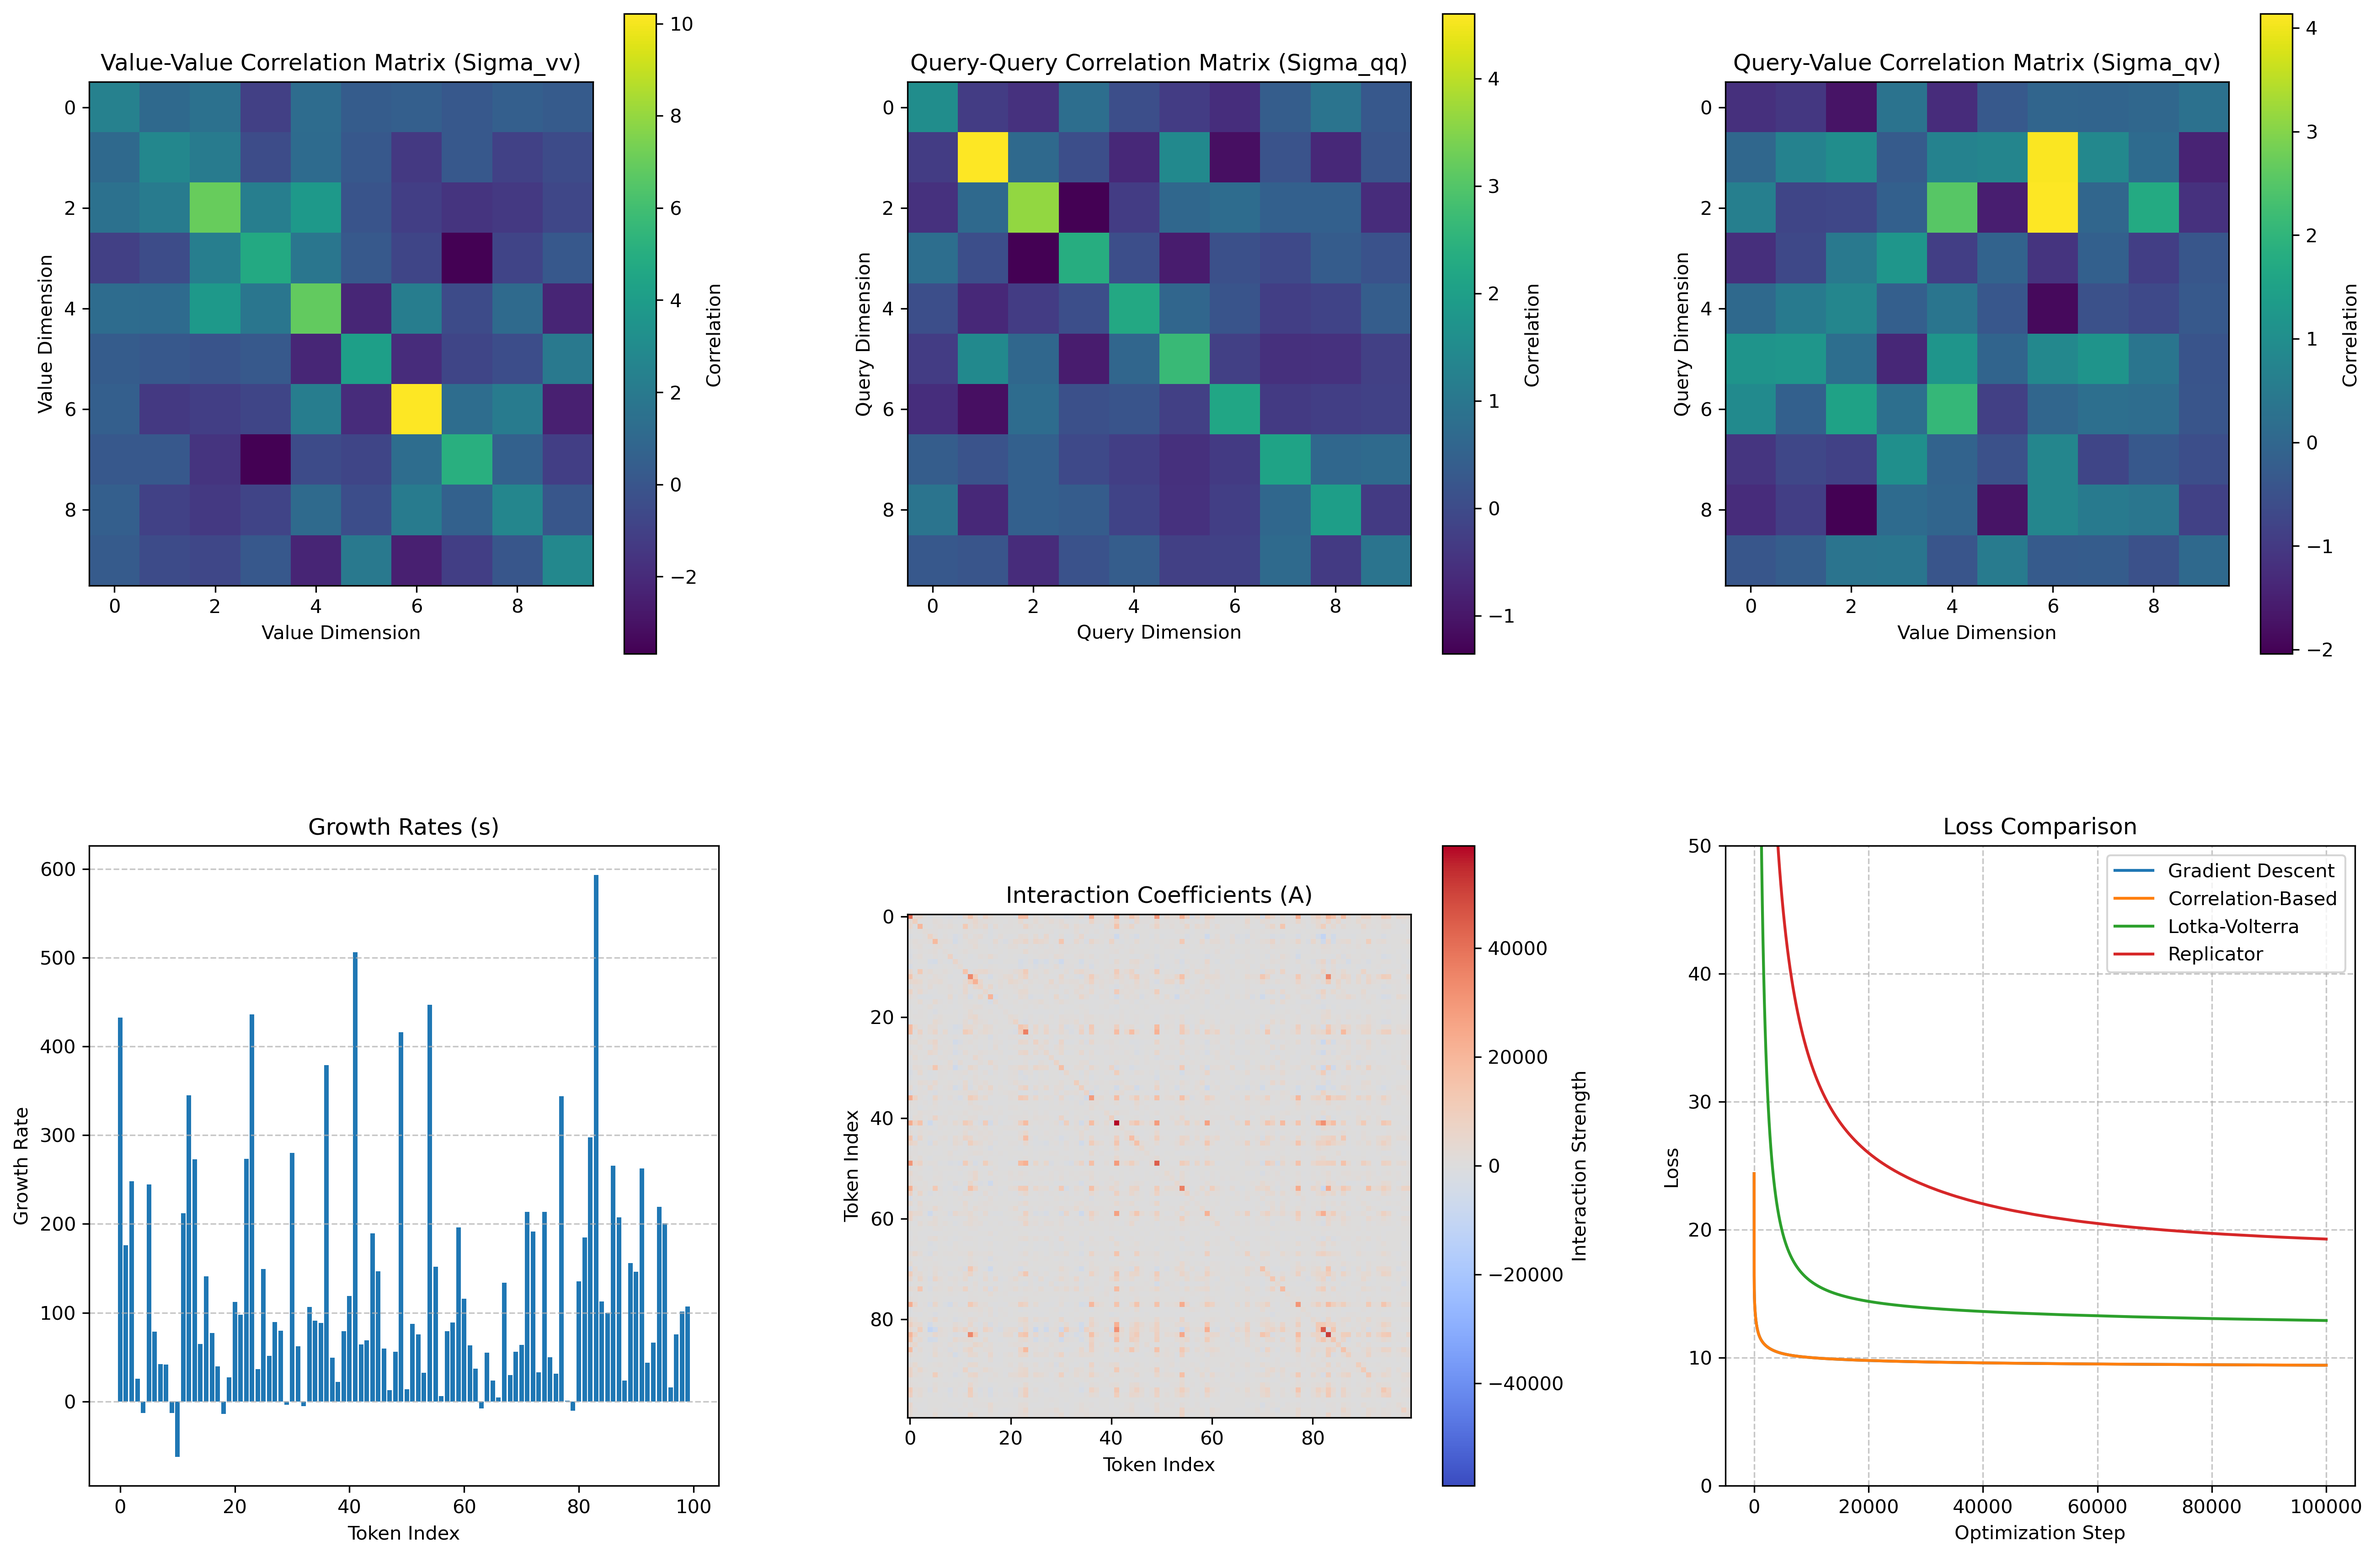
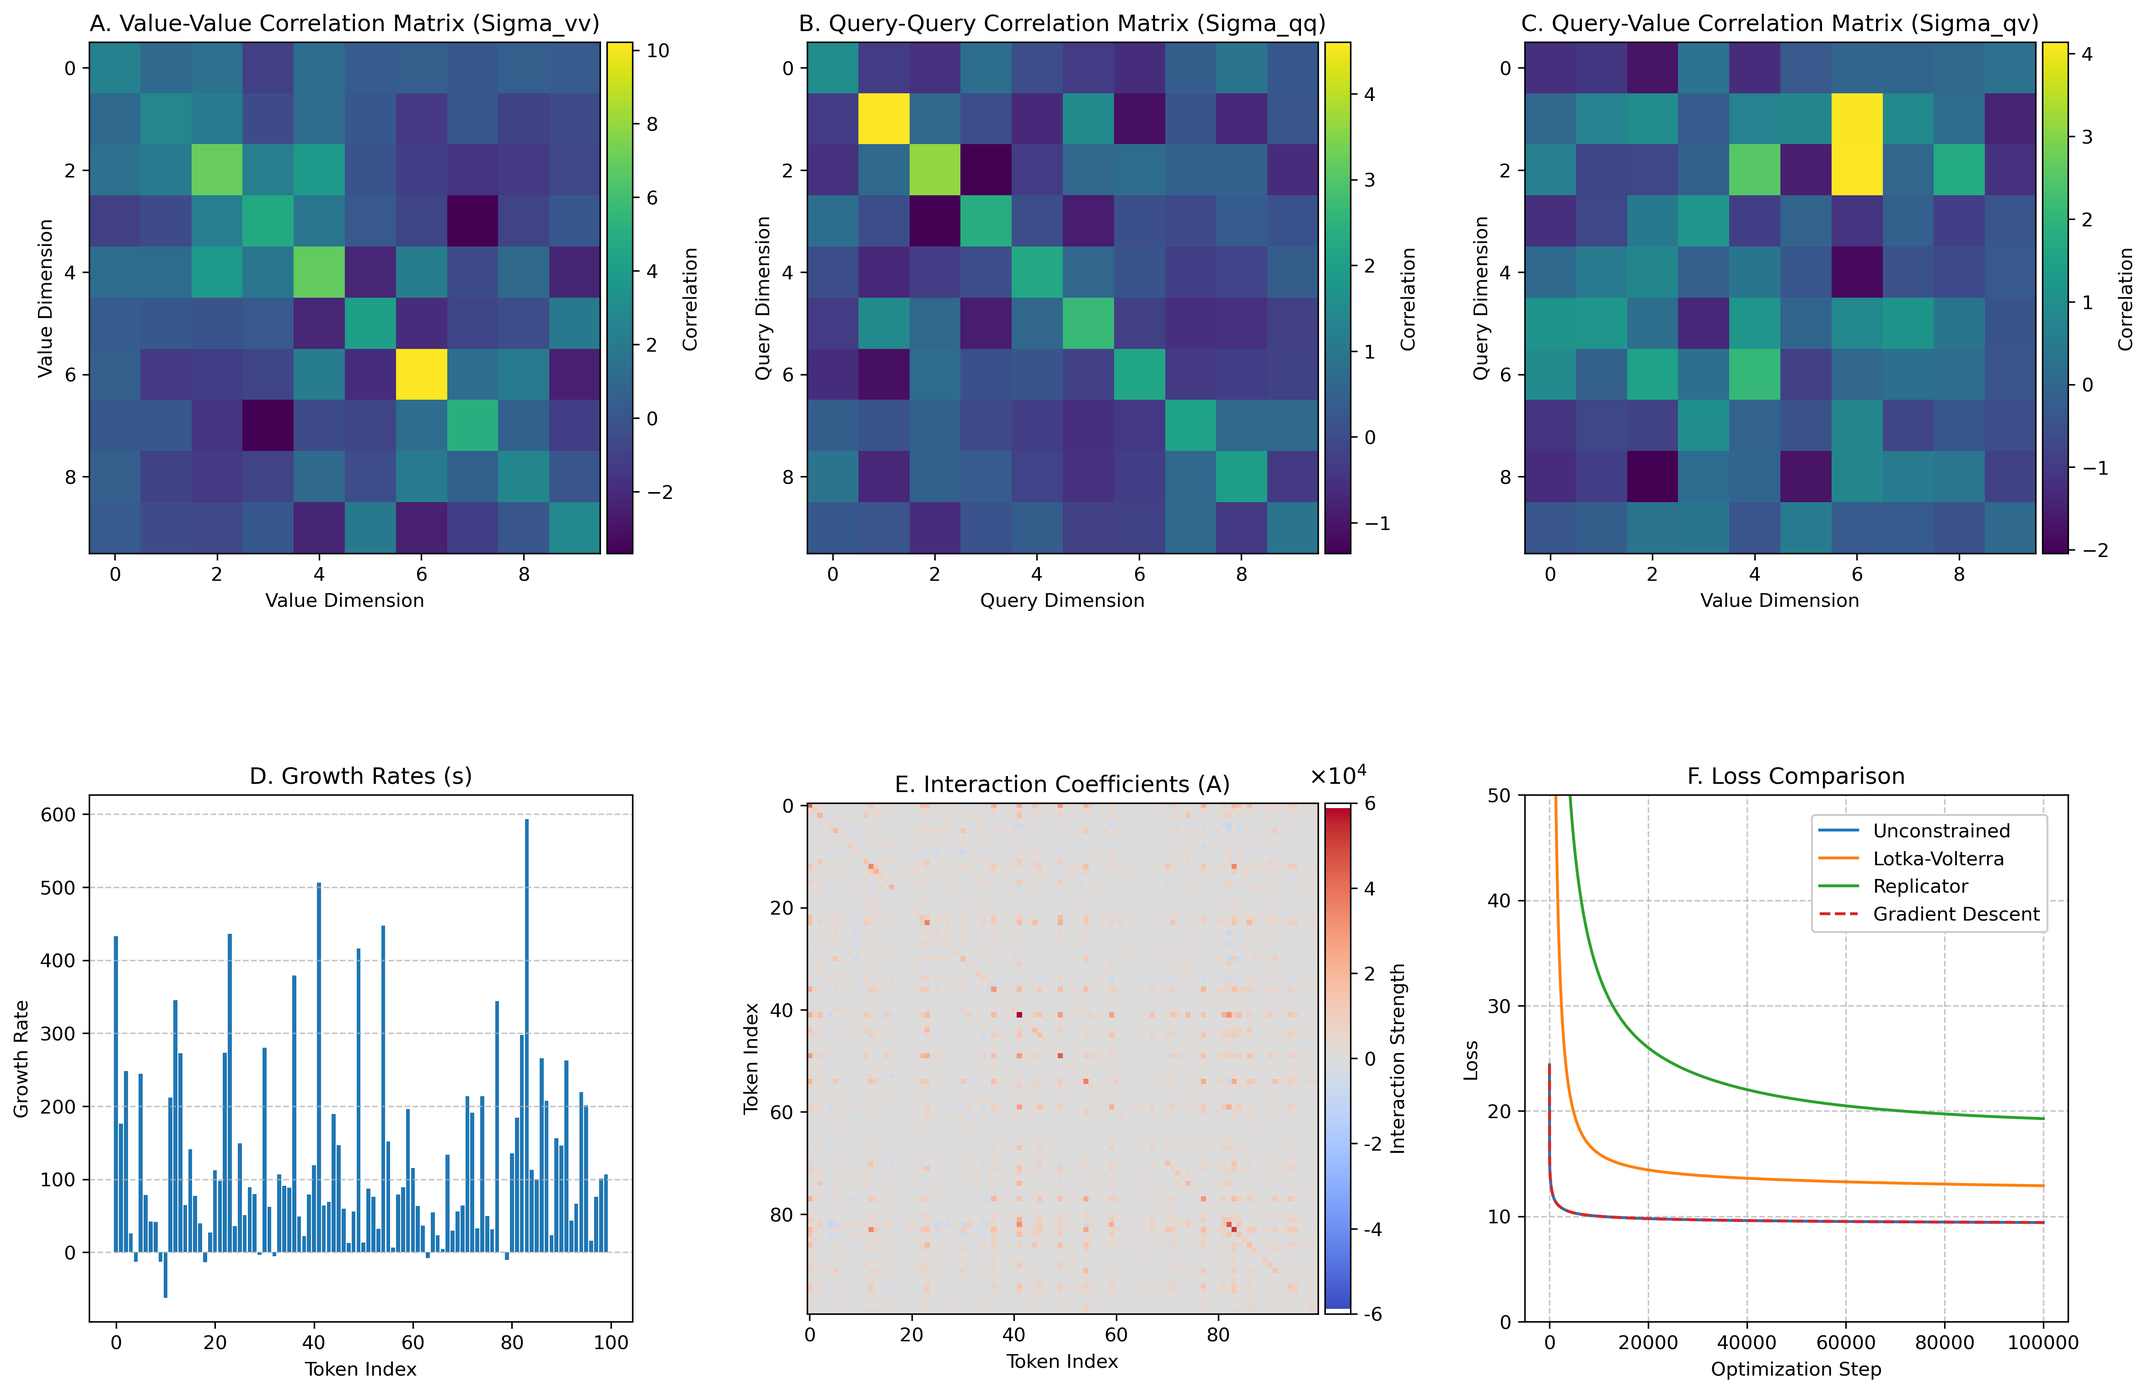
improve figure styling

diff --git a/simulations/make_figure.py b/simulations/make_figure.py
@@ -4,7 +4,7 @@ import numpy as np
 import ecoattention.memory as memory
 from generate import SyntheticDataGenerator
 import matplotlib.pyplot as plt
-
+from mpl_toolkits.axes_grid1 import make_axes_locatable
 # Set the random seed for reproducibility
 torch.manual_seed(42)
 L = 100
@@ -55,34 +55,42 @@ corr_loss = correlation_memory.fit(Q, V, t_max=fit_steps * 1e-6, dt=1e-6, store_
 lv_loss = lotka_volterra_memory.fit(Q, V, t_max=fit_steps * 1e-6, dt=1e-6, store_losses=True)
 rep_loss = replicator_memory.fit(Q, V, t_max=fit_steps * 1e-6, dt=1e-6, store_losses=True)
 
-# Create a figure with 5 subplots: 3 for correlation matrices, 1 for growth rates, 1 for interaction coefficients
-fig, axes = plt.subplots(2, 3, figsize=(18, 12))
+# Create figure with GridSpec
+fig = plt.figure(figsize=(18, 12))
+gs = fig.add_gridspec(2, 3, hspace=0.5, wspace=0.5)  # Increased spacing between subplots
+axes = gs.subplots()
 
 # Plot Sigma_vv
-heatmap1 = axes[0, 0].imshow(correlation_memory.Sigma_vv.detach().numpy(), cmap='viridis')
-fig.colorbar(heatmap1, ax=axes[0, 0], label='Correlation')
-axes[0, 0].set_title('Value-Value Correlation Matrix (Sigma_vv)')
+heatmap1 = axes[0, 0].imshow(correlation_memory.Sigma_vv.detach().numpy(), cmap='viridis', aspect='equal')
+divider = make_axes_locatable(axes[0, 0])
+cax = divider.append_axes("right", size="5%", pad=0.05)
+fig.colorbar(heatmap1, cax=cax, label='Correlation')
+axes[0, 0].set_title('A. Value-Value Correlation Matrix (Sigma_vv)')
 axes[0, 0].set_xlabel('Value Dimension')
 axes[0, 0].set_ylabel('Value Dimension')
 
 # Plot Sigma_qq
-heatmap2 = axes[0, 1].imshow(correlation_memory.Sigma_qq.detach().numpy(), cmap='viridis')
-fig.colorbar(heatmap2, ax=axes[0, 1], label='Correlation')
-axes[0, 1].set_title('Query-Query Correlation Matrix (Sigma_qq)')
+heatmap2 = axes[0, 1].imshow(correlation_memory.Sigma_qq.detach().numpy(), cmap='viridis', aspect='equal')
+divider = make_axes_locatable(axes[0, 1])
+cax = divider.append_axes("right", size="5%", pad=0.05)
+fig.colorbar(heatmap2, cax=cax, label='Correlation')
+axes[0, 1].set_title('B. Query-Query Correlation Matrix (Sigma_qq)')
 axes[0, 1].set_xlabel('Query Dimension')
 axes[0, 1].set_ylabel('Query Dimension')
 
 # Plot Sigma_qv
-heatmap3 = axes[0, 2].imshow(correlation_memory.Sigma_qv.detach().numpy(), cmap='viridis')
-fig.colorbar(heatmap3, ax=axes[0, 2], label='Correlation')
-axes[0, 2].set_title('Query-Value Correlation Matrix (Sigma_qv)')
+heatmap3 = axes[0, 2].imshow(correlation_memory.Sigma_qv.detach().numpy(), cmap='viridis', aspect='equal')
+divider = make_axes_locatable(axes[0, 2])
+cax = divider.append_axes("right", size="5%", pad=0.05)
+fig.colorbar(heatmap3, cax=cax, label='Correlation')
+axes[0, 2].set_title('C. Query-Value Correlation Matrix (Sigma_qv)')
 axes[0, 2].set_xlabel('Value Dimension')
 axes[0, 2].set_ylabel('Query Dimension')
 
 # Plot growth rates (s)
 s_values = correlation_memory.s.detach().numpy()
 axes[1, 0].bar(np.arange(len(s_values)), s_values)
-axes[1, 0].set_title('Growth Rates (s)')
+axes[1, 0].set_title('D. Growth Rates (s)')
 axes[1, 0].set_xlabel('Token Index')
 axes[1, 0].set_ylabel('Growth Rate')
 axes[1, 0].grid(axis='y', linestyle='--', alpha=0.7)
@@ -90,27 +98,47 @@ axes[1, 0].grid(axis='y', linestyle='--', alpha=0.7)
 # Plot interaction coefficients (A)
 heatmap4 = axes[1, 1].imshow(correlation_memory.A.detach().numpy(), cmap='coolwarm', 
                             vmin=-np.abs(correlation_memory.A.detach().numpy()).max(), 
-                            vmax=np.abs(correlation_memory.A.detach().numpy()).max())
-fig.colorbar(heatmap4, ax=axes[1, 1], label='Interaction Strength')
-axes[1, 1].set_title('Interaction Coefficients (A)')
+                            vmax=np.abs(correlation_memory.A.detach().numpy()).max(),
+                            aspect='equal')
+divider = make_axes_locatable(axes[1, 1])
+cax = divider.append_axes("right", size="5%", pad=0.05)
+cbar = fig.colorbar(heatmap4, cax=cax, label='Interaction Strength')
+# Get the order of magnitude for scaling
+max_val = np.abs(correlation_memory.A.detach().numpy()).max()
+scale_factor = int(np.floor(np.log10(max_val)))
+if scale_factor != 0:
+    # Scale the colorbar values
+    cbar.set_ticks(cbar.get_ticks())
+    cbar.set_ticklabels([f'{x/10**scale_factor:g}' for x in cbar.get_ticks()])
+    cbar.ax.set_title(f'×10$^{scale_factor}$', pad=10)
+
+axes[1, 1].set_title('E. Interaction Coefficients (A)')
 axes[1, 1].set_xlabel('Token Index')
 axes[1, 1].set_ylabel('Token Index')
 
 # Plot losses from gradient descent
-axes[1, 2].plot(losses.detach().numpy(), label='Gradient Descent')
-axes[1, 2].plot(corr_loss.detach().numpy(), label='Correlation-Based')
+axes[1, 2].plot(corr_loss.detach().numpy(), label='Unconstrained')
 axes[1, 2].plot(lv_loss.detach().numpy(), label='Lotka-Volterra')
 axes[1, 2].plot(rep_loss.detach().numpy(), label='Replicator')
-axes[1, 2].set_title('Loss Comparison')
+axes[1, 2].plot(losses.detach().numpy(), label='Gradient Descent', linestyle='--')
+axes[1, 2].set_title('F. Loss Comparison')
 axes[1, 2].set_xlabel('Optimization Step')
 axes[1, 2].set_ylabel('Loss')
 axes[1, 2].set_ylim(0, 50)
 axes[1, 2].grid(True, linestyle='--', alpha=0.7)
-axes[1, 2].legend()
+# Place legend inside the plot with padding
+axes[1, 2].legend(loc='upper right', bbox_to_anchor=(0.98, 0.98), frameon=True, framealpha=1)
 
-# Adjust spacing to prevent legend overlap
-plt.tight_layout(pad=3.0)
-plt.subplots_adjust(wspace=0.3, hspace=0.3)
+# Make all axes the same size but with padding
+ax_width = 0.22  # Reduced width to allow for more space between plots
+ax_height = 0.32  # Reduced height to allow for more space between plots
+for i in range(2):
+    for j in range(3):
+        pos = axes[i, j].get_position()
+        axes[i, j].set_position([pos.x0, pos.y0, ax_width, ax_height])
+
+# Adjust the figure layout to ensure all elements are visible
+plt.tight_layout(pad=3.0)  # Add extra padding around the entire figure
 
 # Save the figure
 os.makedirs('simulations/figures', exist_ok=True)
